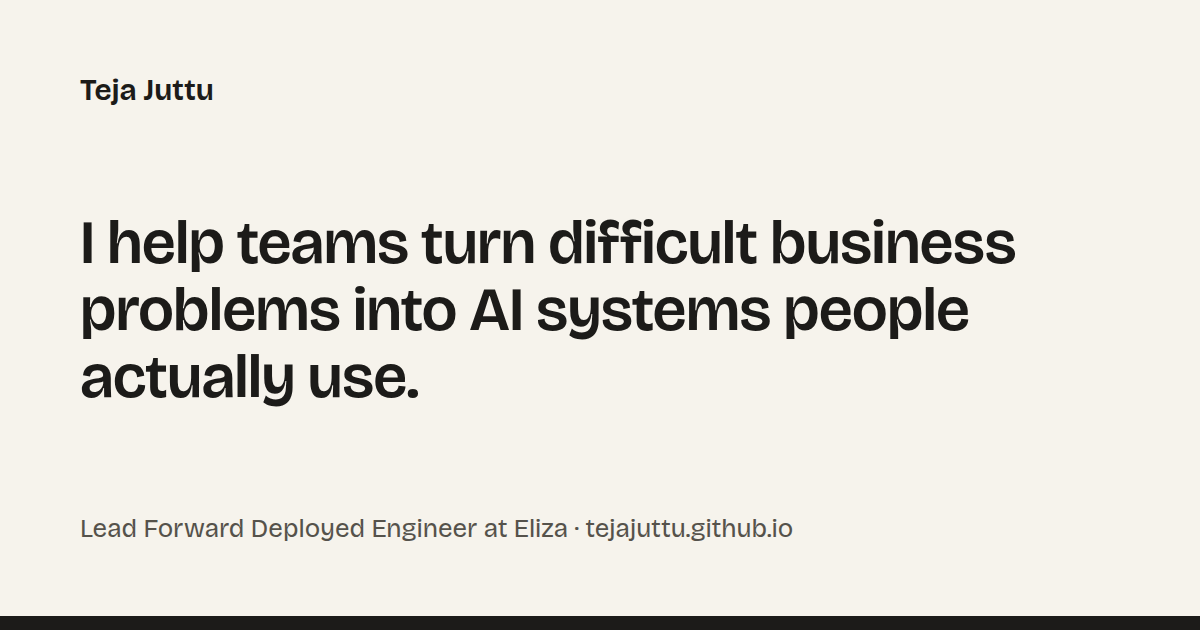
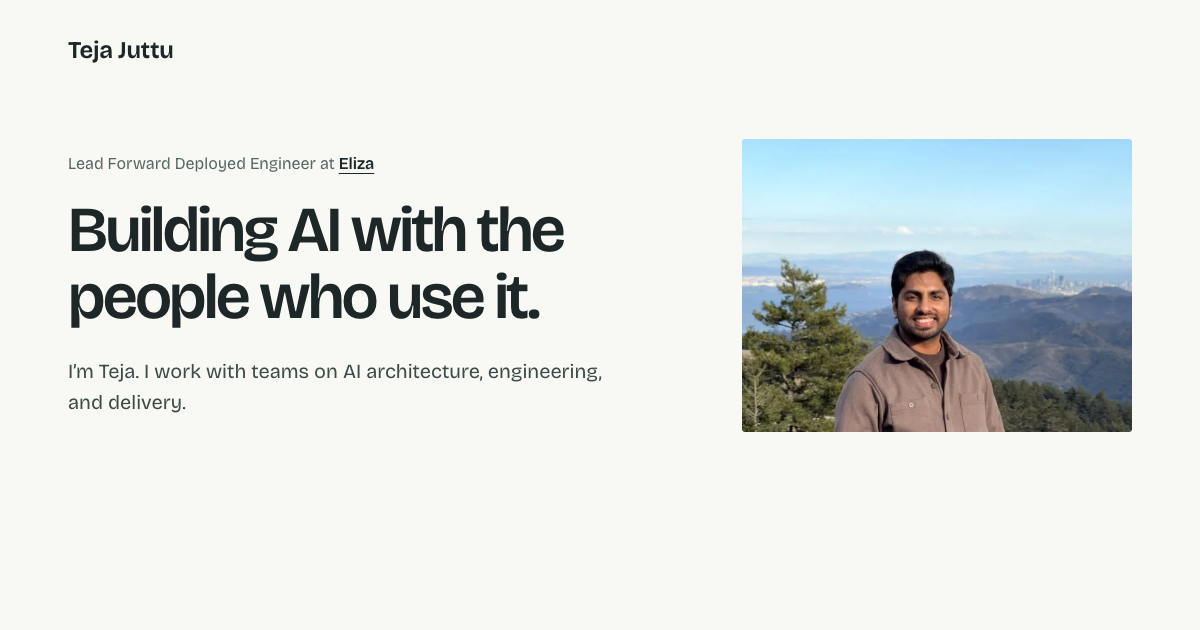
Prepare visual and copy review package

diff --git a/COPY-REVIEW.md b/COPY-REVIEW.md
@@ -1,0 +1,109 @@
+# Copy review — draft for Teja
+
+This is a review inventory of the integrated site at `e8876be`, before the review-package commit. The words below are proposed copy, including headings and descriptions. Source support is not approval of the phrasing. Please approve or revise the first-person wording before publication.
+
+## Source key
+
+- **Brief** — user-supplied v3 brief, especially section 4: `/Users/teja/.codex/attachments/78318580-152b-40f9-9f38-94167ce9b862/Pasted text.txt`. Its fact list cites the supplied LinkedIn export and `eliza.com`.
+- **User feedback** — this conversation: current Eliza and AI work should lead; personal interests are climbing, snowboarding, chess, and Dota 2; photos may be small if legible; copy should be shorter, warmer, and more specific.
+- **Inference / draft** — editorial wording or role interpretation, not an established quote from Teja. Teja should confirm the claim and voice.
+- **Legacy** — content already on the pre-redesign site at `37ae94a`. Its existence there does not independently establish that it is accurate or approved.
+
+## New homepage copy
+
+### Introduction and Eliza
+
+| Exact text | Support and status |
+| --- | --- |
+| “Lead Forward Deployed Engineer at Eliza” | Brief: Eliza role. Date and current status should be confirmed at publication. |
+| “Building AI with the people who use it.” | Inference / draft positioning; not a quote. |
+| “I’m Teja.” | Brief: name; draft wording. |
+| “I work with teams on AI architecture, engineering, and delivery.” | Draft summary of the role; the precise scope needs Teja’s confirmation. |
+| “Engineering, close to the problem.” | Inference / draft heading. |
+| “I work alongside customers and engineers to design and build AI systems around real workflows.” | Brief describes Eliza’s embedded FDE model; this first-person role description is an inference and needs confirmation. |
+| “I set technical direction, work through retrieval, integrations and evaluation, and support FDEs through the hard parts of a build.” | Inference from role and user’s stated direction; these specific current Eliza responsibilities are not established by section 4. Confirm or revise. |
+
+### Selected work
+
+| Exact text | Support and status |
+| --- | --- |
+| “AI systems built around what people need to find, understand, and do.” | Draft editorial summary. |
+| “Search inside a video, not just its title.” | Draft heading; supported in concept by the brief’s scene-level semantic-search description. |
+| “I worked on scene-level semantic search that brought video understanding, audio parsing, and metadata together.” | Brief: multimodal media intelligence. First-person wording is draft. |
+| “Agents used that context to create highlights, summary podcasts, and articles.” | Brief: downstream agents produced highlights for social media, summary podcasts and articles. Wording is draft. |
+| “Grounding agents in enterprise knowledge.” | Draft heading; brief: agentic RAG with grounded retrieval. |
+| “I built agentic retrieval systems with ingestion and search layers, tool use, and guardrails to help answer subject-matter questions.” | Brief: energy agentic RAG, tools, guardrails, grounded retrieval, ingestion/search, and reducing SME manual work. First-person wording and the precise ownership are draft for confirmation. |
+| “Making video AI easier to start.” | Draft heading for the NVIDIA blueprint work. |
+| “I adapted NVIDIA’s video search blueprint into repeatable starting points for sports highlights, security alerting, and broadcast moderation.” | Brief: NVIDIA VSS adaptation and those three pursuit examples; first-person wording is draft. |
+| “At EY, I led teams of 4–8 developers and took MVPs through UAT.” | Brief: developer teams of 4–8 and MVPs through UAT. This does not claim production adoption. Wording is draft. |
+
+### About, personal interests, and contact
+
+| Exact text | Support and status |
+| --- | --- |
+| “Curious about how things work.” | Inference / draft personal statement; not a quotation or sourced anecdote. |
+| “My path has taken me from IIT Madras and Georgia Tech to analytics, data science, and AI engineering.” | Brief: education and role chronology. Draft phrasing; verify that it captures the path accurately. |
+| “Along the way, I’ve worked across media, energy, financial services, retail, and manufacturing.” | Brief: sectors in EY AI and data work; draft. |
+| “Earlier: PlayerZero, Goldman Sachs, American Express, and EY.” | Brief: earlier employers. Their specific date ranges remain in the source brief; abbreviated display is draft. |
+| “A few things I enjoy.” / “Rock climbing, snowboarding, chess, and Dota 2.” | User feedback and brief: listed interests; headings are draft. |
+| “Have a project, a question, or a good chess puzzle?” / “I’d love to hear from you.” | Draft invitation; please confirm tone. |
+
+**Experience labels:** Eliza, Lead Forward Deployed Engineer, 2026–present; EY, Lead AI Engineer, AI & Data, 2023–2026; EY, Senior Data Scientist, 2022–2023. Source: brief section 4. The display uses years only; current status requires confirmation at publication.
+
+**Photo descriptions:** “Teja smiling outdoors, with hills, water and a city skyline behind him”; “Teja climbing beneath a rock overhang above a canyon”; “Teja on a snowboard, with a lake and snowy mountains in the distance.” Source: visual inspection of the three user-supplied originals. Confirm the descriptions if preferred.
+
+**Chess:** “White to move and mate in one” and the answer “Qg7#. The king on f6 protects the queen” are retained puzzle copy, not personal claims. The position and reveal were checked by the browser test.
+
+**Interface labels:** Work, About, Contact, See my work, Get in touch, Currently at Eliza, Selected work · EY, 2023–2026, A closer look at the work, Media & entertainment, Energy, Video AI, Explore the project, A little about me, Experience, Full experience on LinkedIn, Explore my graduate project archive, Outside of work, Climbing, Snowboarding, A small chess puzzle, Show the answer, Let’s talk, LinkedIn, GitHub, Back to top. These are navigation or editorial labels; the sector and role-year labels are based on the brief. They are not claimed quotations.
+
+## Multimodal project page
+
+All wording below is draft, even where the substance is supported by the brief:
+
+1. “At EY, I worked on scene-level semantic search that combined video understanding, audio parsing and metadata enrichment.” — Brief: multimodal media intelligence.
+2. “Downstream agents used the content to create highlights, podcasts and articles.” — Brief: downstream agents made highlights, summary podcasts and articles. Confirm whether the shorter “podcasts” should retain “summary.”
+3. “At EY, I worked on multimodal media intelligence.” — Brief: EY project area.
+4. “Video understanding, audio parsing and metadata enrichment made scene-level semantic search possible.” — Brief: multimodal ingredients.
+5. “Downstream agents made highlights for social media, summary podcasts and articles.” — Brief: downstream uses.
+6. “I also adapted NVIDIA’s video search blueprint into repeatable starting points for sports highlights, corporate security alerting and broadcast moderation.” — Brief: NVIDIA VSS pursuits.
+
+The step captions “Media content / Video and audio,” “Understand / Video understanding, audio parsing and metadata enrichment,” “Scene-level search / Semantic search across media content,” and “Downstream agents / Highlights, summary podcasts and articles” are a **conceptual editorial summary**, not a diagram of a client system. Source: brief; review wording and relationship before publication. The project labels “EY · AI & Data,” “EY role tenure 2023–2026,” and “Lead AI Engineer” describe role tenure, not a claimed project-specific date.
+
+**Metadata caveat:** the pre-existing project-page description refers to the elements being “in one index.” The supplied brief does not establish that architecture. This retained text needs correction or Teja’s explicit confirmation; it is not substantiated by the source list.
+
+## Existing archive and 404 copy retained for review
+
+The archive introduction says: “Coursework and side projects from my master’s at Georgia Tech, 2020–2022: machine learning, data visualization and a little programming. Kept for reference — my current work is on the home page.” Source: Legacy; the brief supports a Georgia Tech master’s but does not independently verify its dates or every archive entry.
+
+The 404 says “That page isn’t here. It may have moved when I rebuilt the site. Try the home page, my selected work, or the grad-school archive.” Source: Legacy; the explanation is draft, not a historical statement confirmed by Teja.
+
+The descriptions, tools, dates and links in the 20 academic entries below are **retained legacy content**, not verified by the brief or LinkedIn export. Each row is included for review rather than represented as independently confirmed. In particular, the **93%** result and attribution/ownership of any linked work need confirmation before they are treated as established accomplishments.
+
+- **Traffic sign classification**: Multi-class classification of traffic-sign images with several algorithms; 93% accuracy on the high-impact classes. Tools: SVM, Naive Bayes, Random Forest, KNN, MLP, PCA. Displayed term: Fall 2021.
+- **Predicting game success**: Models to predict a new game’s market success, with sentiment analysis of user reviews shown in an interactive visualization. Tools: Linear and Poisson regression, sentiment analysis.
+- **Face recognition with PCA**: Recognizing people from their top eigenfaces, across photos with different expressions. Tools: Python, scikit-learn, PCA. Displayed term: Spring 2021.
+- **Image compression**: Compressing images of several sizes with a K-means implementation written from scratch. Tools: Python, K-means. Displayed term: Spring 2021.
+- **Spectral clustering**: Finding non-convex clusters in a synthetic dataset with spectral clustering. Tools: Python, scikit-learn. Displayed term: Fall 2020.
+- **Comparing classifiers**: Several scikit-learn classifiers on synthetic data, to show how their decision boundaries differ. Tools: Naive Bayes, trees, AdaBoost, neural nets, SVM, QDA. Displayed term: Fall 2020.
+- **ISOMAP embeddings**: A two-dimensional ISOMAP embedding of face images in different poses, compared with PCA. Tools: Python, ISOMAP. Displayed term: Fall 2020.
+- **Clustering handwritten digits**: Unsupervised pattern recognition on MNIST digits. Tools: Python, K-means. Displayed term: Fall 2020.
+- **Principal component analysis**: PCA on leaf, food-consumption and digit datasets to find the directions that matter. Tools: Python, PCA. Displayed term: Fall 2020.
+- **Regularization**: Ridge and lasso regression on a housing dataset to curb overfitting. Tools: Python, ridge, lasso.
+- **NFT analytics dashboard**: Analytics and a dashboard over OpenSea trading data and Twitter sentiment. Tools: D3.js, Django, Python, R. Displayed term: Fall 2021.
+- **COVID-19 data pipeline**: An end-to-end streaming pipeline on AWS to analyse trends in COVID-19 data. Tools: Kafka, NiFi, PySpark, HDFS, Tableau. Displayed term: Spring 2021.
+- **Choropleth map**: An interactive map of board-game ratings by region. Tools: D3.js, GeoJSON. Displayed term: Spring 2021.
+- **Co-actor network**: A network of actors who have worked together, explored as an interactive graph. Tools: Argo-lite, Python. Displayed term: Fall 2020.
+- **Force-directed graph**: Similarities between board games, laid out with a force simulation. Tools: D3.js. Displayed term: Fall 2020.
+- **Frequency polygon**: An interactive frequency polygon of board-game ratings. Tools: D3.js. Displayed term: Fall 2020.
+- **D3 line chart**: Board-game ratings over time, trying out line-chart features in D3. Tools: D3.js, SVG.
+- **Tic-tac-toe**: Tic-tac-toe in Python with an AI opponent. Tools: Python. Displayed term: Fall 2020.
+- **Dice game simulation**: A dice gamble game with Monte Carlo simulation and distribution tests. Tools: Python, Monte Carlo. Displayed term: Fall 2020.
+- **Fitting distributions**: Routines that fit data to continuous and discrete probability distributions. Tools: Python, goodness of fit.
+
+## Metadata and other retained labels
+
+- Homepage description and social description: “Teja Juttu, Lead Forward Deployed Engineer at Eliza. I help teams turn difficult business problems into AI systems people actually use.” This is **retained legacy copy** at `37ae94a`; the role is in the brief, while the first-person sentence is draft positioning for Teja’s approval.
+- Project title “Scene-level search for video libraries,” figure caption “How a clip becomes searchable,” and disclosure “Conceptual overview, not a client system” summarize the brief; they are editorial labels rather than Teja-authored quotes.
+- Project-page links “An agent that answers from the company’s own documents” and “Reusable starting points on NVIDIA’s video search blueprint” are retained legacy labels leading to homepage summaries. The brief supports grounded enterprise retrieval and the VSS blueprint work; the wording and implied singularity in the first label should be reviewed.
+- Archive metadata describes “Coursework and side projects from Teja Juttu’s master’s at Georgia Tech: machine learning, data visualization and programming.” Source: Legacy, not independently verified against original projects.
+- The 404 and archive interface labels, copyright line, chess position and controls are retained functional copy. No new professional facts are implied by those controls.

diff --git a/REVIEW.md b/REVIEW.md
@@ -1,0 +1,33 @@
+# Redesign v3 — review before publication
+
+**Status:** Local review on `redesign-v3`. The brief requires Teja’s approval of the result and the new first-person copy before any production push. The live site remains on `main` until then.
+
+## What changed
+
+- A shorter, aligned hero brings Teja’s role and landscape portrait into view. Current Eliza work leads into three concise EY examples.
+- Original personal photos have responsive versions and metadata removed; the design preserves the surrounding landscapes and makes the hobby photos legible on small screens.
+- The project and academic archive layouts were simplified, and the chess puzzle remains optional. Existing archive links and the old `/projects.html` redirect are retained.
+- A fresh 1200 × 630 social preview uses a browser rendering of the new homepage.
+
+## Work gathered
+
+- Photo assets: `34d75c3` (merged onto `redesign-v3`).
+- Homepage: `fe80110`, merged at `5ca88f8`.
+- Supporting pages and tests: `1c555cc`, merged at `e8876be`.
+- Initial photo, homepage and supporting-page worktrees were verified clean and contained, then removed; their local branches were deleted.
+- The consistency pass was in progress when this note was written. Check the integration branch log for its final commit and validation.
+
+## Screenshots and photo options
+
+The before captures show the live site; the after captures below show the homepage worktree after review refinements. All are local temporary files and may not persist indefinitely.
+
+- Before: [desktop](/private/tmp/teja-redesign-before/live-1440-viewport.png), [mobile](/private/tmp/teja-redesign-before/live-390-viewport.png).
+- After: [desktop full page](/private/tmp/teja-v3-home-1440-full-loaded.png), [mobile full page](/private/tmp/teja-v3-home-390-full-loaded.png). Additional captures are in `/private/tmp/teja-v3-home-{1024,768,320}-full-loaded.png`.
+- Portrait crops: [full composition](/private/tmp/teja-redesign-before/portrait-full.jpg), [wide](/private/tmp/teja-redesign-before/portrait-wide.jpg), [closer](/private/tmp/teja-redesign-before/portrait-context.jpg). The implementation uses the full responsive source with a modest CSS crop; these options are for discussion.
+- [Social preview](social-card.png).
+
+## Validation and remaining review
+
+The homepage and integrated site passed their browser test suites, including responsive overflow, automated accessibility checks, chess, navigation and archive behavior. Homepage photos were visually checked in Chrome at 1440, 1024, 768, 390 and 320 pixels. Confirm the final consistency pass and rerun integrated checks after the final merge.
+
+Review [COPY-REVIEW.md](COPY-REVIEW.md) for all new homepage and project prose, the source of the claims, and unverified legacy archive content. The 20 archive descriptions—including the 93% figure—were retained from the old site and are not independently verified. Teja should review the new copy, photo presentation, and any claims flagged for confirmation. A final screenshot and interaction check should use the integrated branch, not the worker worktree.
